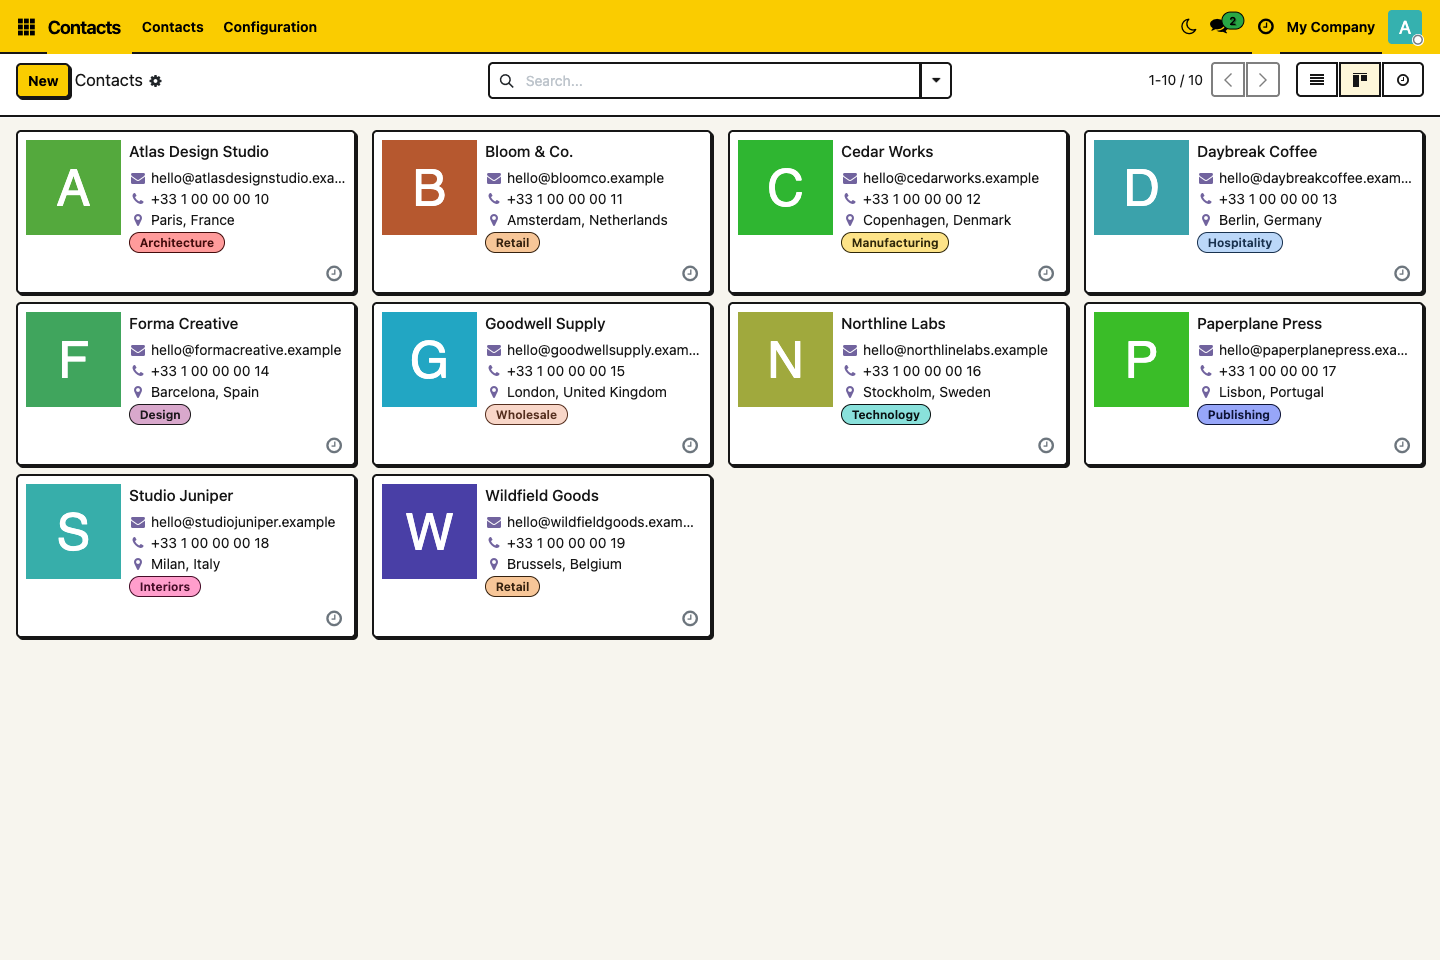
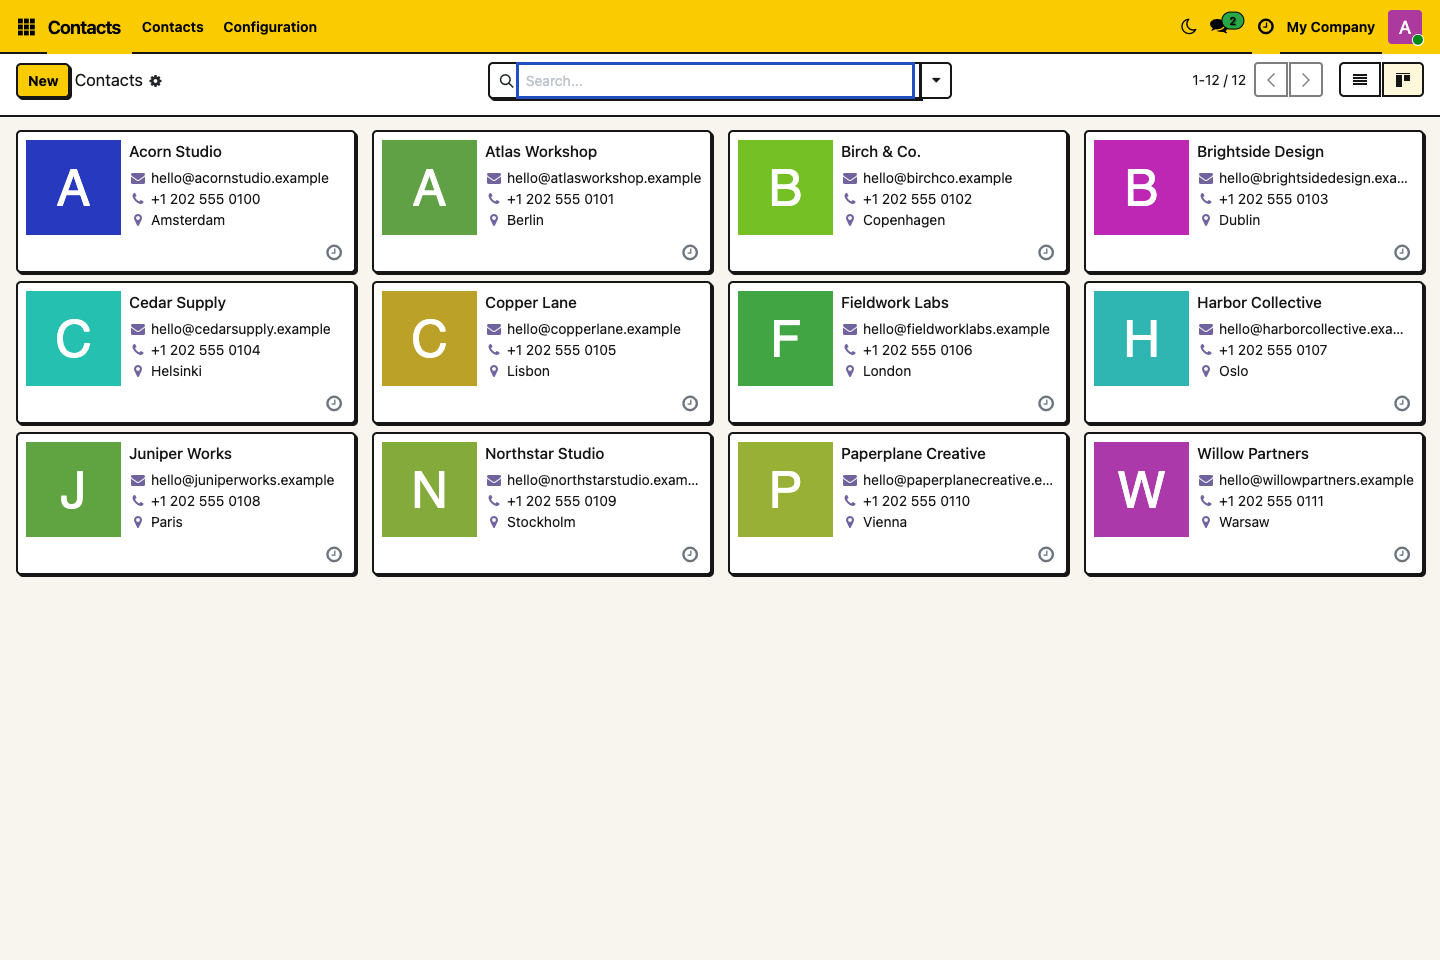
Finalize Odoo 19 marketplace listing and release validation

Changed region(s): [[0.0, 0.0625, 1.0, 0.6875], [0.8125, 0.0, 1.0, 0.125]]

diff --git a/tools/cover.html b/tools/cover.html
@@ -32,8 +32,8 @@ h1 span { display: inline-block; background: #facc00; padding: 0 10px 6px 4px; }
     <div class="feature">7 SHARED ACCENTS &nbsp; / &nbsp; PERSONAL DAY + NIGHT</div>
   </div>
   <div class="screens">
-    <div class="screen day"><img src="../static/description/contacts-kanban.png" alt="Actual Odoo Contacts kanban in day mode"><span class="screen-label">DAY</span></div>
-    <div class="screen night"><img src="../static/description/night-mode.png" alt="Actual Odoo Contacts list in night mode"><span class="screen-label">NIGHT</span></div>
+    <div class="screen day"><img src="../neobrutalism_theme/static/description/contacts-kanban.png" alt="Actual Odoo Contacts kanban in day mode"><span class="screen-label">DAY</span></div>
+    <div class="screen night"><img src="../neobrutalism_theme/static/description/night-mode.png" alt="Actual Odoo Contacts list in night mode"><span class="screen-label">NIGHT</span></div>
   </div>
   <div class="swatches"><span style="background:#facc00"></span><span style="background:#5294ff"></span><span style="background:#5ad9aa"></span><span style="background:#b59aff"></span><span style="background:#ff91bc"></span><span style="background:#ffb15c"></span><span style="background:#ff7474"></span></div>
   <div class="footer">NEO BRUTAL / BACKEND THEME</div>

diff --git a/neobrutalism_theme/VALIDATION.md b/neobrutalism_theme/VALIDATION.md
@@ -1,117 +1,59 @@
-# Validation — 19.0.1.5.1
+# Validation — 19.0.1.6.0
 
-## Current release: publisher metadata and README
+Validated on **2026-09-21** with official Docker image **Odoo 19.0-20260908 Community**, PostgreSQL 17, and headless Google Chrome. Tests used disposable databases only.
 
-Version **19.0.1.5.1** updates publisher metadata and documentation. Python models, runtime assets, permissions and dependencies are unchanged from 19.0.1.5.0. The runtime checks below describe that release.
+## Server and packaging
 
-- Validated the RivetFox author/website, version consistency, all 17 README local links, anchors and image paths, and the repository clone command.
-- The release builder passed manifest, image, Python/XML syntax and ZIP integrity checks. Compared the manifest against 19.0.1.5.0 to confirm that runtime asset declarations, dependencies, data files and installation flags are unchanged.
+- Odoo discovers the add-on directly inside the repository's `neobrutalism_theme/` directory. The technical module name stays the same on `18.0` and `19.0`.
+- Installed the extracted release ZIP in a fresh database with only the manifest's dependencies (`web` and `base_setup`). All **five Python integration tests passed**: seven presets persist, arbitrary colors are rejected, legacy values fall back, shared night mode stays absent, and regular users cannot change shared settings.
+- Verified main and lazy dark CSS compile/load with only those dependencies, night mode survives reload, and day mode restores the original styles without browser errors.
+- Upgraded the extracted package with all five integration tests passing again. Verified the saved Blue preset and an unrelated contact survive upgrade. Uninstalled through Odoo's module manager; the module became `uninstalled` and its external IDs were removed while the unrelated contact remained.
+- Release builder passed manifest metadata, declared assets, PNGs, listing markup, Python/XML syntax, and ZIP integrity checks. Repeated builds with unchanged inputs produced identical checksums.
+- Rendered `doc/index.rst` without warnings and checked the description with Odoo's HTML sanitizer. All listing images survived sanitization. Local listing previews at 1440px and 390px loaded every image without horizontal overflow.
 
-## Previous release: complete night-mode assets (19.0.1.5.0)
+## Browser checks
 
-Validated on 2026-09-21 in a disposable Odoo **19.0-20260908 Community** database, PostgreSQL 17 and headless Google Chrome. No production database was used.
+A separate database included Contacts, Discuss, CRM, Calendar and Project to exercise their real views. These optional apps and fictional records are not installed by the theme.
 
-- Reproduced the original Discuss failure: the sidebar, header and conversation retained light backgrounds while the personal theme applied light text.
-- Reviewed the asset-level approach in [OCA web_dark_mode](https://github.com/OCA/web/tree/18.0/web_dark_mode), the native dark-token approach in [Pantalytics Odoo Style Pro](https://github.com/pantalytics/odoo-style-pro), and Odoo 19's own bundles and component SCSS. Implemented an original Neo palette and stylesheet switcher; no AGPL theme code was copied.
-- Upgraded the module in Odoo; all five existing Python integration tests passed, including administrator-only settings access.
-- The Node suite passed, including asynchronous preference changes, failed loads, out-of-order completion, user/database isolation and storage failures.
-- Standalone browser lifecycle tests passed: styles remain inert until ready; main and lazy styles switch together; later native lazy styles cannot reintroduce a light surface; original media attributes restore exactly; a native dark baseline can switch to day and back; JavaScript is never loaded twice; failed stylesheet loads can be retried and stalled bundle requests time out.
-- The existing full browser suite passed for all seven presets in both modes, actual Contacts list/form/chatter, administrator-only colors, mobile settings and unsaved form edits. Status colors remain independent of the selected accent.
-- The new real-app suite passed for Discuss channel names, messages, authors, timestamps, date separators, composer placeholders and the emoji picker. Measured text contrast is at least **4.5:1** on the tested elements, including opacity and composed background colors.
-- Tested generated success/info/warning/danger notices with headings and muted details; all tested text meets 4.5:1. This exposed and fixed literal light tints left by Bootstrap's default color helpers.
-- Checked Calendar headers, CRM pipeline titles, Project task cards, shared color settings, standard graph/pivot views and Appearance dialogs with dark surfaces. Inspected rendered Calendar and graph screenshots.
-- Standard graph axes and legends follow live day/night changes; bar, line and pie render without errors. These checks use Odoo's standard renderer, not every custom chart implementation.
-- The new suite confirms failed stylesheet loads keep the previous appearance, retry succeeds, unsent Discuss drafts survive switches, disabling restores original CSS, and the global `color_scheme` cookie is unchanged. No uncaught JavaScript/Owl errors occurred.
-- Installed the extracted 19.0.1.5.0 ZIP in a second fresh database with only the manifest's dependencies. All five integration tests passed. Its main/lazy dark CSS compiled without errors, both stylesheets loaded, the stored mode survived reload, and returning to day restored the native styles.
-- Refreshed the actual Odoo screenshots and added a Discuss night-mode example. The release builder validated eight listing images, Python/XML syntax, SCSS asset directives and ZIP integrity; RST documentation rendered without warnings.
+- Saved all **seven accent presets through the actual Settings form** and checked all **14 day/night combinations**. Primary buttons, active tabs and tested table highlights meet 4.5:1 text contrast; navbar focus indicators meet 3:1. Success/warning/error styles stay independent of the accent.
+- Confirmed administrator-only shared colors, ordinary-user access to personal night mode, mode persistence, 390px settings layout, readable Contacts list/form/chatter and unsaved form edits surviving a toggle.
+- Checked Discuss channel names, message text, authors, timestamps, date separators, composer placeholders and the emoji picker against composed backgrounds and opacity. Tested elements meet 4.5:1; unsent drafts survive mode switches.
+- Checked success/info/warning/danger notices, Calendar headers, CRM titles, Project task cards, shared Settings and Appearance dialogs. Tested dark surfaces and text contrast.
+- Verified standard graph axes/legends update while switching modes; bar, line and pie views render, and pivot headings remain readable.
+- Interrupted the first dark-CSS load: the previous appearance remained readable, a notification appeared, and retry succeeded. Disabling/re-enabling restored the expected styles. Odoo's global `color_scheme` cookie was unchanged. No uncaught JavaScript/Owl errors occurred in the successful suites.
+- Node regression checks passed for seven presets, contrast, async changes, failed/out-of-order loads, user/database isolation, storage failures and retired palette cleanup.
+- Standalone Playwright lifecycle checks passed for inert CSS staging, atomic activation, later lazy styles, exact media restoration, print media, native-dark baselines, no duplicate JavaScript, timeout/failure and retry.
+- Captured fresh, actual Odoo 19 listing screenshots with fictional contacts and reviewed the day/night views, settings, forms, kanban, Appearance and versioned cover.
 
-## Previous release: color swatches
+## Repeat the checks
 
-Validated on 2026-09-21 with a fresh disposable Odoo 19.0-20260908 Community database and Chrome.
-
-- Installed 19.0.1.4.1; all five existing Odoo integration tests passed, including administrator-only color changes.
-- The existing Node preference/contrast regression suite passed.
-- Verified the rendered swatch colors against the actual JavaScript preset values for all seven options in day mode, night mode, at 390px width, and with the personal theme disabled.
-- Checked clicking a swatch, accessible radio names, arrow-key selection, and persistence after Save/reload. No uncaught browser errors occurred.
-- Visually reviewed desktop, mobile, night and theme-disabled settings; updated the marketplace settings screenshot.
-
-## Previous release validation
-
-The remaining sections record the broader marketplace and lifecycle checks performed for **19.0.1.4.0**. Those checks are historical; version 19.0.1.5.0 also changed asset loading and dark styling.
-
-
-## Marketplace preparation
-
-- Checked Odoo Apps' official vendor guidelines and FAQ on 2026-09-21; updated the manifest name/version and image declarations.
-- Captured actual Odoo 19 Community Contacts list, kanban, form, settings and Appearance views with fictional data. The release does not install the screenshot records or Contacts.
-- Validated the English listing as static HTML with local resources only. Odoo's HTML sanitizer retained all seven listing images.
-- Rendered `doc/index.rst` using Odoo's bundled docutils with warnings treated as errors; no warnings remained.
-- Checked the local listing preview at 1440px and 390px: every embedded image loaded and there was no horizontal page overflow. The actual Odoo Apps renderer may apply different surrounding styles.
-- The reproducible ZIP builder validates manifest paths, PNG assets, Python/XML syntax, HTML structure and ZIP integrity. It excludes local caches, publisher-only notes and build output.
-- Installed the extracted release ZIP into a fresh database using only the manifest's dependencies: all five integration tests passed. Upgraded the existing 19.0.1.3.0 database with the extracted ZIP to 19.0.1.4.0: all five tests passed again, and the stored module version was verified.
-- Ran the complete browser suite against the extracted package after upgrade; every check passed with no uncaught browser errors.
-- Uninstalled the extracted package through Odoo's module manager. The module state became `uninstalled`, its external IDs were removed, and an unrelated test contact remained present.
-- Verified identical ZIP checksums on two builds with unchanged inputs. Final packaged runtime files match the extracted files used for the install, upgrade and browser checks.
-- Publisher contact, repository and free/paid decisions are not supplied. The existing author and LGPL-3 license remain; the manifest has no price, so it currently describes a free release.
-- No upload or Odoo Apps scanner review has been performed.
-
-## Passed locally
-
-Validated on 2026-09-21 using a temporary Odoo **19.0-20260908 Community** database, PostgreSQL 17 and headless Google Chrome. No production database was used.
-
-- Installed the module through Odoo's actual module loader, including the settings model, inherited view, menu and assets.
-- All **5 Odoo integration tests** passed: all seven presets persist correctly, arbitrary colors are rejected, invalid/retired parameters fall back safely, retired global night mode stays ignored, and ordinary users cannot change settings or their underlying parameters.
-- The Node regression suite passed: all seven preset definitions, text/highlight contrast in both modes, neutral-color isolation, invalid preset rejection, personal mode persistence, tab/user isolation, blocked storage and cleanup of retired custom colors.
-- Selected and saved **all seven presets through the real Odoo settings form**. The settings form has seven choices and no free-form color inputs.
-- Tested **14 preset/mode combinations** in Chrome using Odoo's actual CSS and theme assets. Checked primary buttons, active tabs, secondary-button hover, striped/hovered/active table rows and navigation focus indicators.
-- Accent and highlight text meet **4.5:1 contrast** in every preset/mode combination; navigation focus indicators meet **3:1**. Removed background-color fading that could briefly produce unreadable text during day/night switches.
-- Compared rendered success/warning/error buttons, alerts and a danger badge between presets: their colors remain unchanged. These checks use isolated test fixtures styled by the live Odoo assets, not every installed business view.
-- Confirmed normal users receive the shared preset, cannot change it, and can still switch night mode independently with their saved choice surviving reloads.
-- Visually inspected the settings page in night mode and at a **390px viewport**, with no full-page horizontal overflow. Desktop/mobile navigation labels use the preset's contrasting text color.
-- No uncaught JavaScript/Owl errors in the browser checks.
-- Extended the browser suite to actual standard Contacts views: night-mode form labels, breadcrumb/contact links, list action/activity icons, notebook tabs, chatter controls and timestamps have readable contrast. Verified that switching mode preserves an unsaved name edit. These checks exposed and fixed neutral-color issues from Odoo's light asset bundle.
-- Python/XML syntax validated; every manifest asset and data path exists.
-
-## Repeatable regression checks
-
-From the module directory, with Node 18+:
+From the repository root:
 
 ```bash
-node tests/test_preferences.mjs
+node neobrutalism_theme/tests/test_preferences.mjs
+python3 tools/build_release.py
 ```
 
-With this module on an Odoo 19 add-ons path, using a disposable test database:
+With the add-on on the Odoo 19 add-ons path and a disposable database:
 
 ```bash
 odoo -d TEST_DATABASE -i neobrutalism_theme --without-demo --test-enable --test-tags=/neobrutalism_theme --stop-after-init
 ```
 
-Use `-u neobrutalism_theme` instead of `-i` when the module is already installed.
-
-The browser suite `tests/test_browser.cjs` requires Playwright 1.62+ with Chromium or Chrome and a disposable Odoo 19 database with the theme and Contacts installed. It uses the disposable database's default `admin` / `admin` login and writes shared settings, users, partners and a test action. These test dependencies are not runtime dependencies of the add-on. Run it from a development environment where `require('playwright')` is available:
+Use `-u` instead of `-i` for an installed module. The Playwright suites require Playwright 1.62+ and Chromium or Chrome in the development environment, not in the installed add-on:
 
 ```bash
-NEO_TEST_URL=http://127.0.0.1:18069 NEO_TEST_DB=DISPOSABLE_DATABASE NEO_ALLOW_TEST_WRITES=1 node tests/test_browser.cjs
+node neobrutalism_theme/tests/test_stylesheets.cjs
+NEO_TEST_URL=http://127.0.0.1:18069 NEO_TEST_DB=DISPOSABLE_DATABASE NEO_ALLOW_TEST_WRITES=1 node neobrutalism_theme/tests/test_browser.cjs
+NEO_TEST_URL=http://127.0.0.1:18069 NEO_TEST_DB=DISPOSABLE_DATABASE NEO_ALLOW_TEST_WRITES=1 node neobrutalism_theme/tests/test_night_mode.cjs
 ```
 
-The additional suite needs Discuss, CRM, Calendar and Project installed alongside Contacts, and writes fictional tasks, opportunities and actions in the disposable database:
+The browser suites use `admin` / `admin` and write settings, users, contacts, tasks, opportunities and actions. `test_browser.cjs` needs Contacts; `test_night_mode.cjs` additionally needs CRM, Calendar and Project. Run them sequentially against the same database. Set `NEO_CHROME_PATH` for a system Chrome executable.
 
-```bash
-NEO_TEST_DB=DISPOSABLE_DATABASE NEO_ALLOW_TEST_WRITES=1 node tests/test_night_mode.cjs
-```
+## Publication and limits
 
-The stylesheet lifecycle tests require only Playwright and a browser, with no running Odoo or database:
+The manifest lists **RivetFox**, **https://rivetfox.pro**, LGPL-3 and no price (free). An unconfirmed support email is not included. The English listing uses local assets and static markup. Official [vendor guidelines](https://apps.odoo.com/apps/vendor-guidelines), [FAQ](https://apps.odoo.com/apps/faq) and [submission instructions](https://apps.odoo.com/apps/upload) were checked on 2026-09-21. No publisher account registration, marketplace upload, scanner acceptance or publication has been performed.
 
-```bash
-node tests/test_stylesheets.cjs
-```
+These checks cover Odoo Community, not Enterprise-only screens, Odoo.sh deployment, RTL layouts, Studio, spreadsheets, specialized editors or third-party themes/custom charts. Public websites, portals, POS, login screens and PDF reports are outside the backend theme's scope. Verify the apps installed in your own staging database. Shared accent changes apply when users reload; they are not pushed into open pages.
 
-Set `NEO_CHROME_PATH` if using a system Chrome executable instead of Playwright's Chromium. Do not run this write-enabled suite against a production database.
-
-## Remaining deployment checks
-
-The module has not been tested on your VPS/database or with your installed third-party modules. Enterprise-only screens, RTL layouts, specialized editors, Studio, spreadsheets, POS and custom chart renderers have not been verified. Discuss and the standard graph/pivot renderer are covered by the 19.0.1.5.0 checks above. Public websites and portals are outside the backend theme's scope.
-
-After upgrading on your test database, check the settings page, a list, an editable form and many2one dropdown, a kanban board, a modal, mobile navigation and a report. Shared settings take effect when users reload Odoo; existing open pages do not receive a live push update.
-
-Compatibility references: Odoo's public `19.0` branch, particularly [settings views](https://github.com/odoo/odoo/blob/19.0/addons/base_setup/views/res_config_settings_views.xml), [session information](https://github.com/odoo/odoo/blob/19.0/addons/web/models/ir_http.py), and [web-client asset selection](https://github.com/odoo/odoo/blob/19.0/addons/web/views/webclient_templates.xml).
+Source references: [Odoo 19 web manifest](https://github.com/odoo/odoo/blob/19.0/addons/web/__manifest__.py), [settings view](https://github.com/odoo/odoo/blob/19.0/addons/base_setup/views/res_config_settings_views.xml), and [web client templates](https://github.com/odoo/odoo/blob/19.0/addons/web/views/webclient_templates.xml).

diff --git a/neobrutalism_theme/README.md b/neobrutalism_theme/README.md
@@ -118,6 +118,8 @@ Copy the `neobrutalism_theme` directory into one of the directories already list
 
 ## Update, disable or uninstall the theme
 
+Earlier source releases kept the module at the repository root. It now lives in the inner `neobrutalism_theme/` directory. If your old checkout was mounted as the module itself, update the mount or copy that inner directory to the existing module location. The required path remains `ADDONS_PATH/neobrutalism_theme/__manifest__.py`; the technical name and saved preferences are unchanged.
+
 - To update: replace this module directory with the newer version, restart Odoo, then find the module in Apps and select **Upgrade**. Hard-refresh the browser after asset rebuilds.
 - To disable for yourself: avatar → **Appearance** → clear **Use Neobrutalism theme**. This takes effect immediately in this browser. Clicking the top-bar mode toggle enables the theme again for you.
 - To remove for everyone: uninstall **Neo Brutal Backend Theme** from Apps, then reload. Remove its directory only **after** uninstalling it. No business data belongs to the add-on.
@@ -192,7 +194,7 @@ Discuss, Calendar, CRM, Project and standard graph/pivot views were checked on O
 
 See the [validation record](VALIDATION.md) for performed checks and their limits. Marketplace screenshots in `static/description/` show actual Odoo 19 Community views with fictional demonstration records. These records and the Contacts app are not added by this theme. The [marketplace description](static/description/index.html) and [user documentation](doc/index.rst) are included in this repository.
 
-Source compatibility was checked against Odoo's public `19.0` branch, and version `19.0.1.5.0` was installed in a temporary local Odoo 19 Community database. This does not verify your installed third-party modules. Start with your test database, then check a list, an editable form, a many2one dropdown, a kanban board, a modal, mobile navigation and a report from your installed apps.
+Source compatibility was checked against Odoo's public `19.0` branch, and version `19.0.1.6.0` was installed in a temporary local Odoo 19 Community database. This does not verify your installed third-party modules. Start with your test database, then check a list, an editable form, a many2one dropdown, a kanban board, a modal, mobile navigation and a report from your installed apps.
 
 The included storage/initialization regression checks can be run outside Odoo with Node 18+:
 

diff --git a/PUBLISHING.md b/PUBLISHING.md
@@ -48,6 +48,14 @@ python3 tools/build_release.py
 
 The builder checks the manifest, declared assets, Python/XML syntax, English listing markup, local images and ZIP integrity. The archive contains one `neobrutalism_theme/` folder and excludes build tools, output, publisher-only notes and caches. Results and runtime test commands are in `neobrutalism_theme/VALIDATION.md`.
 
+To regenerate the listing images, install Contacts, CRM, Calendar and Project in a disposable database, then run the Playwright capture tool from a development environment:
+
+```bash
+NEO_TEST_URL=http://127.0.0.1:8069 NEO_TEST_DB=DISPOSABLE_DATABASE NEO_ALLOW_TEST_WRITES=1 node tools/capture_screenshots.cjs
+```
+
+This uses the disposable database's `admin` / `admin` credentials, saves Yellow as the shared accent, and creates fictional contacts and an action. It captures the running Odoo version and renders the branch's cover. Set `NEO_CHROME_PATH` to use system Chrome. Playwright is a development dependency only.
+
 For updates, increase the version on the applicable branch, rerun validation, commit and push the branch, then rescan it in Odoo Apps. A local ZIP does not register or publish a marketplace listing.
 
 Official references checked for this preparation: [Vendor guidelines](https://apps.odoo.com/apps/vendor-guidelines), [Odoo Apps FAQ](https://apps.odoo.com/apps/faq), and [repository submission](https://apps.odoo.com/apps/upload).

diff --git a/README.md b/README.md
@@ -41,6 +41,8 @@ Add the repository's absolute path to your existing `addons_path`, or copy its *
 
 Restart Odoo, enable developer mode, and open **Apps → Update Apps List**. Remove the default **Apps** filter, search for **Neo Brutal Backend Theme**, and install it. Reload the browser. For an existing installation, replace the module files, restart Odoo and choose **Upgrade** before refreshing the browser.
 
+**Updating an older checkout:** earlier releases kept the manifest at the repository root. The add-on now lives one directory deeper. Adjust the mount/add-ons path or copy the inner `neobrutalism_theme/` directory so Odoo still sees `ADDONS_PATH/neobrutalism_theme/__manifest__.py`.
+
 [Detailed installation, color settings and troubleshooting](neobrutalism_theme/README.md) · [User documentation](neobrutalism_theme/doc/index.rst)
 
 ## Validation and release packages

diff --git a/neobrutalism_theme/CHANGELOG.md b/neobrutalism_theme/CHANGELOG.md
@@ -1,5 +1,13 @@
 # Changelog
 
+## 19.0.1.6.0 — 2026-09-21
+
+- Package the add-on inside `neobrutalism_theme/` so Odoo discovers it directly from the repository.
+- Add standard `18.0` and `19.0` publication branches, a version matrix, and RivetFox publisher instructions.
+- Preserve the technical module name, administrator-only seven-color presets, and personal day/night mode.
+- Refresh real Odoo 19 listing screenshots and add a repeatable screenshot capture tool.
+- Validate installation from the release archive, module lifecycle, permissions, and browser behavior on Odoo 19 Community.
+
 ## 19.0.1.5.1 — 2026-09-21
 
 - Set the manifest author to RivetFox and the website to https://rivetfox.pro.
